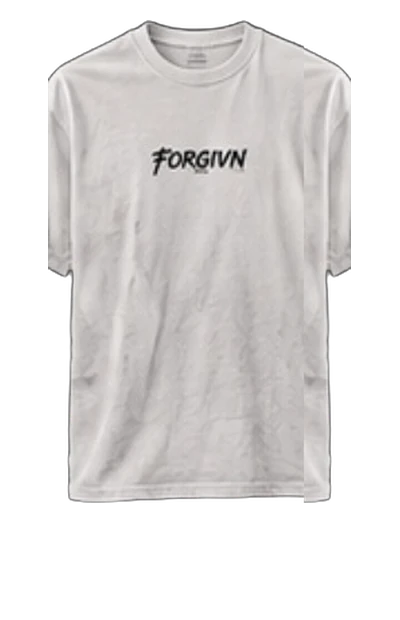
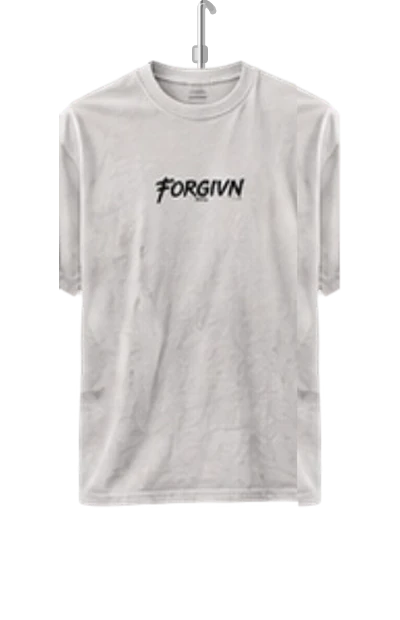
Fix hangers, cut-out edges and page background
- Clean dark outline off every cut-out and remove haze on the Set Free hoodie
- Replace the drawn wooden hanger (it stuck out past the clothes) with a
  chrome hook baked into each photo, centred on the collar
- One page colour (#fafafa) matching the menu; drop the grey band behind the rail
- Space pieces by their real side-view width, close the gap under the rail,
  and remove the empty space under the menu
- Hang price tags to the left on phones so neighbours don't cover them

diff --git a/components/ui/product-rail-gallery.tsx b/components/ui/product-rail-gallery.tsx
@@ -22,6 +22,8 @@ export interface RailGarment {
   backImage?: string;
   /** Side-on photo shown while the piece rests on the rail; omit to show the front photo turned away. */
   sideImage?: string;
+  /** Width of the side photo as a fraction of the canvas width, so the rail leaves room for it (defaults to 0.3). */
+  sideWidth?: number;
   /** Short hang-tag text such as a price or a size. */
   tag?: string;
   /** Short facts listed in the detail view. */
@@ -51,6 +53,8 @@ export interface ClothingRailHeroProps extends React.ComponentProps<"section"> {
   hanger?: "wood" | "matte" | "none";
   labels?: ClothingRailHeroLabels;
   onOpenChange?: (index: number | null) => void;
+  /** How far down the canvas the photos reach (0–1). Lower it when your cut-outs end above the canvas bottom, to avoid a gap under the rail. */
+  photoBottom?: number;
 }
 
 const VB_W = 200;
@@ -533,6 +537,7 @@ export function ClothingRailHero({
   hanger = "wood",
   labels = DEFAULT_LABELS,
   onOpenChange,
+  photoBottom = 1,
   className,
   ...rest
 }: ClothingRailHeroProps) {
@@ -558,7 +563,7 @@ export function ClothingRailHero({
   const returnFocus = React.useRef(null as number | null);
   const pendingOpen = React.useRef(-1);
   const pointer = React.useRef({ id: -1, index: -1, x: 0, y: 0, t: 0, moved: false, kind: "", swipe: 0, lastX: 0, lastT: 0, v: 0 });
-  const sideWidths = React.useMemo(() => items.map((item) => (item.image ? (item.sideImage ? 0.3 : 0.4) : SIDE[item.kind ?? "tee"].width)), [items]);
+  const sideWidths = React.useMemo(() => items.map((item) => (item.image ? (item.sideImage ? (item.sideWidth ?? 0.3) : 0.4) : SIDE[item.kind ?? "tee"].width)), [items]);
   const live = React.useRef({ active: null as number | null, size, reduced, count, openIndex: null as number | null, carouselIndex: 0, sideWidths });
   live.current = { ...live.current, active, size, reduced, count, openIndex, sideWidths };
 
@@ -916,7 +921,7 @@ export function ClothingRailHero({
   const boxW = h * ASPECT;
   const railY = Math.round(h * 0.07) + 10;
   const railR = Math.max(3, Math.round((RAIL_R / VB_H) * h * 10) / 10);
-  const bottom = count ? Math.max(...items.map((item) => (item.image ? VB_H : SIDE[item.kind ?? "tee"].hem + 8))) / VB_H : 1;
+  const bottom = count ? Math.max(...items.map((item) => (item.image ? VB_H * photoBottom : SIDE[item.kind ?? "tee"].hem + 8))) / VB_H : 1;
 
   return (
     <section
@@ -928,7 +933,6 @@ export function ClothingRailHero({
       className={`relative isolate w-full overflow-hidden bg-background text-foreground ${className ?? ""}`}
     >
       <Defs uid={uid} />
-      <div aria-hidden="true" className="pointer-events-none absolute inset-0 -z-10" style={{ background: "radial-gradient(120% 70% at 18% 0%, color-mix(in oklab, var(--color-foreground) 7%, transparent), transparent 62%), linear-gradient(to bottom, transparent 55%, color-mix(in oklab, var(--color-foreground) 5%, transparent))" }} />
       {(eyebrow || heading) && (
         <header className="relative z-10 flex flex-col items-center gap-2 px-6 pt-8 text-center">
           {eyebrow && <p className="text-[11px] font-medium uppercase tracking-[0.28em] text-muted-foreground">{eyebrow}</p>}
@@ -1011,7 +1015,7 @@ export function ClothingRailHero({
                 {item.tag && (
                   <span ref={(node) => { tags.current[i] = node; }} aria-hidden="true" className="pointer-events-none absolute left-1/2 origin-top" style={{ top: (32 / VB_H) * h, transform: "rotate(-12deg)" }}>
                     <span className="block h-[14px] w-px translate-x-[3px] bg-foreground/35" />
-                    <span className="block -translate-x-1/2 translate-x-[3px] whitespace-nowrap rounded-[3px] border border-foreground/10 bg-card px-1.5 pb-1 pt-2 text-[9px] font-semibold leading-none tracking-wide text-card-foreground shadow-[0_2px_6px_color-mix(in_oklab,var(--color-foreground)_18%,transparent)]">
+                    <span className="block -translate-x-1/2 translate-x-[3px] max-sm:-translate-x-[calc(100%-4px)] whitespace-nowrap rounded-[3px] border border-foreground/10 bg-card px-1.5 pb-1 pt-2 text-[9px] font-semibold leading-none tracking-wide text-card-foreground shadow-[0_2px_6px_color-mix(in_oklab,var(--color-foreground)_18%,transparent)]">
                       <span className="absolute left-1/2 top-[3px] size-[3px] -translate-x-1/2 rounded-full bg-foreground/30" />
                       {item.tag}
                     </span>

diff --git a/components/ui/demo.tsx b/components/ui/demo.tsx
@@ -16,6 +16,7 @@ export const RAIL_DEMO_ITEMS: RailGarment[] = [
     image: asset("/garments/original-front.webp"),
     backImage: asset("/garments/original-back.webp"),
     sideImage: asset("/garments/original-side.webp"),
+    sideWidth: 0.34,
   },
   {
     id: "the-bloodline",
@@ -28,6 +29,7 @@ export const RAIL_DEMO_ITEMS: RailGarment[] = [
     image: asset("/garments/bloodline-front.webp"),
     backImage: asset("/garments/bloodline-back.webp"),
     sideImage: asset("/garments/bloodline-side.webp"),
+    sideWidth: 0.3,
   },
   {
     id: "grace",
@@ -40,6 +42,7 @@ export const RAIL_DEMO_ITEMS: RailGarment[] = [
     image: asset("/garments/grace-front.webp"),
     backImage: asset("/garments/grace-back.webp"),
     sideImage: asset("/garments/grace-side.webp"),
+    sideWidth: 0.37,
   },
   {
     id: "no-longer-a-slave",
@@ -52,6 +55,7 @@ export const RAIL_DEMO_ITEMS: RailGarment[] = [
     image: asset("/garments/no-longer-a-slave-front.webp"),
     backImage: asset("/garments/no-longer-a-slave-back.webp"),
     sideImage: asset("/garments/no-longer-a-slave-side.webp"),
+    sideWidth: 0.3,
   },
   {
     id: "the-99",
@@ -64,15 +68,17 @@ export const RAIL_DEMO_ITEMS: RailGarment[] = [
     image: asset("/garments/the-99-front.webp"),
     backImage: asset("/garments/the-99-back.webp"),
     sideImage: asset("/garments/the-99-side.webp"),
+    sideWidth: 0.45,
   },
 ];
 
 export default function ClothingRailHeroDemo({ autoplay = true }: { autoplay?: boolean }) {
   return (
-    <div data-rail-demo className="flex min-h-[calc(100svh-6rem)] w-full items-center justify-center bg-background text-foreground">
+    <div data-rail-demo className="flex w-full justify-center bg-background text-foreground">
       <ClothingRailHero
         items={RAIL_DEMO_ITEMS}
-        hanger="wood"
+        hanger="none"
+        photoBottom={0.84}
         eyebrow="New season · Five pieces on the rail"
         heading="A clothing rail you can handle, right on the page."
         caption="Brush along the rail, slide a hanger, lift a piece to see the back."

diff --git a/app/globals.css b/app/globals.css
@@ -32,7 +32,7 @@
 
 :root {
   --radius: 0.625rem;
-  --background: oklch(1 0 0);
+  --background: oklch(0.985 0 0);
   --foreground: oklch(0.145 0 0);
   --card: oklch(1 0 0);
   --card-foreground: oklch(0.145 0 0);
